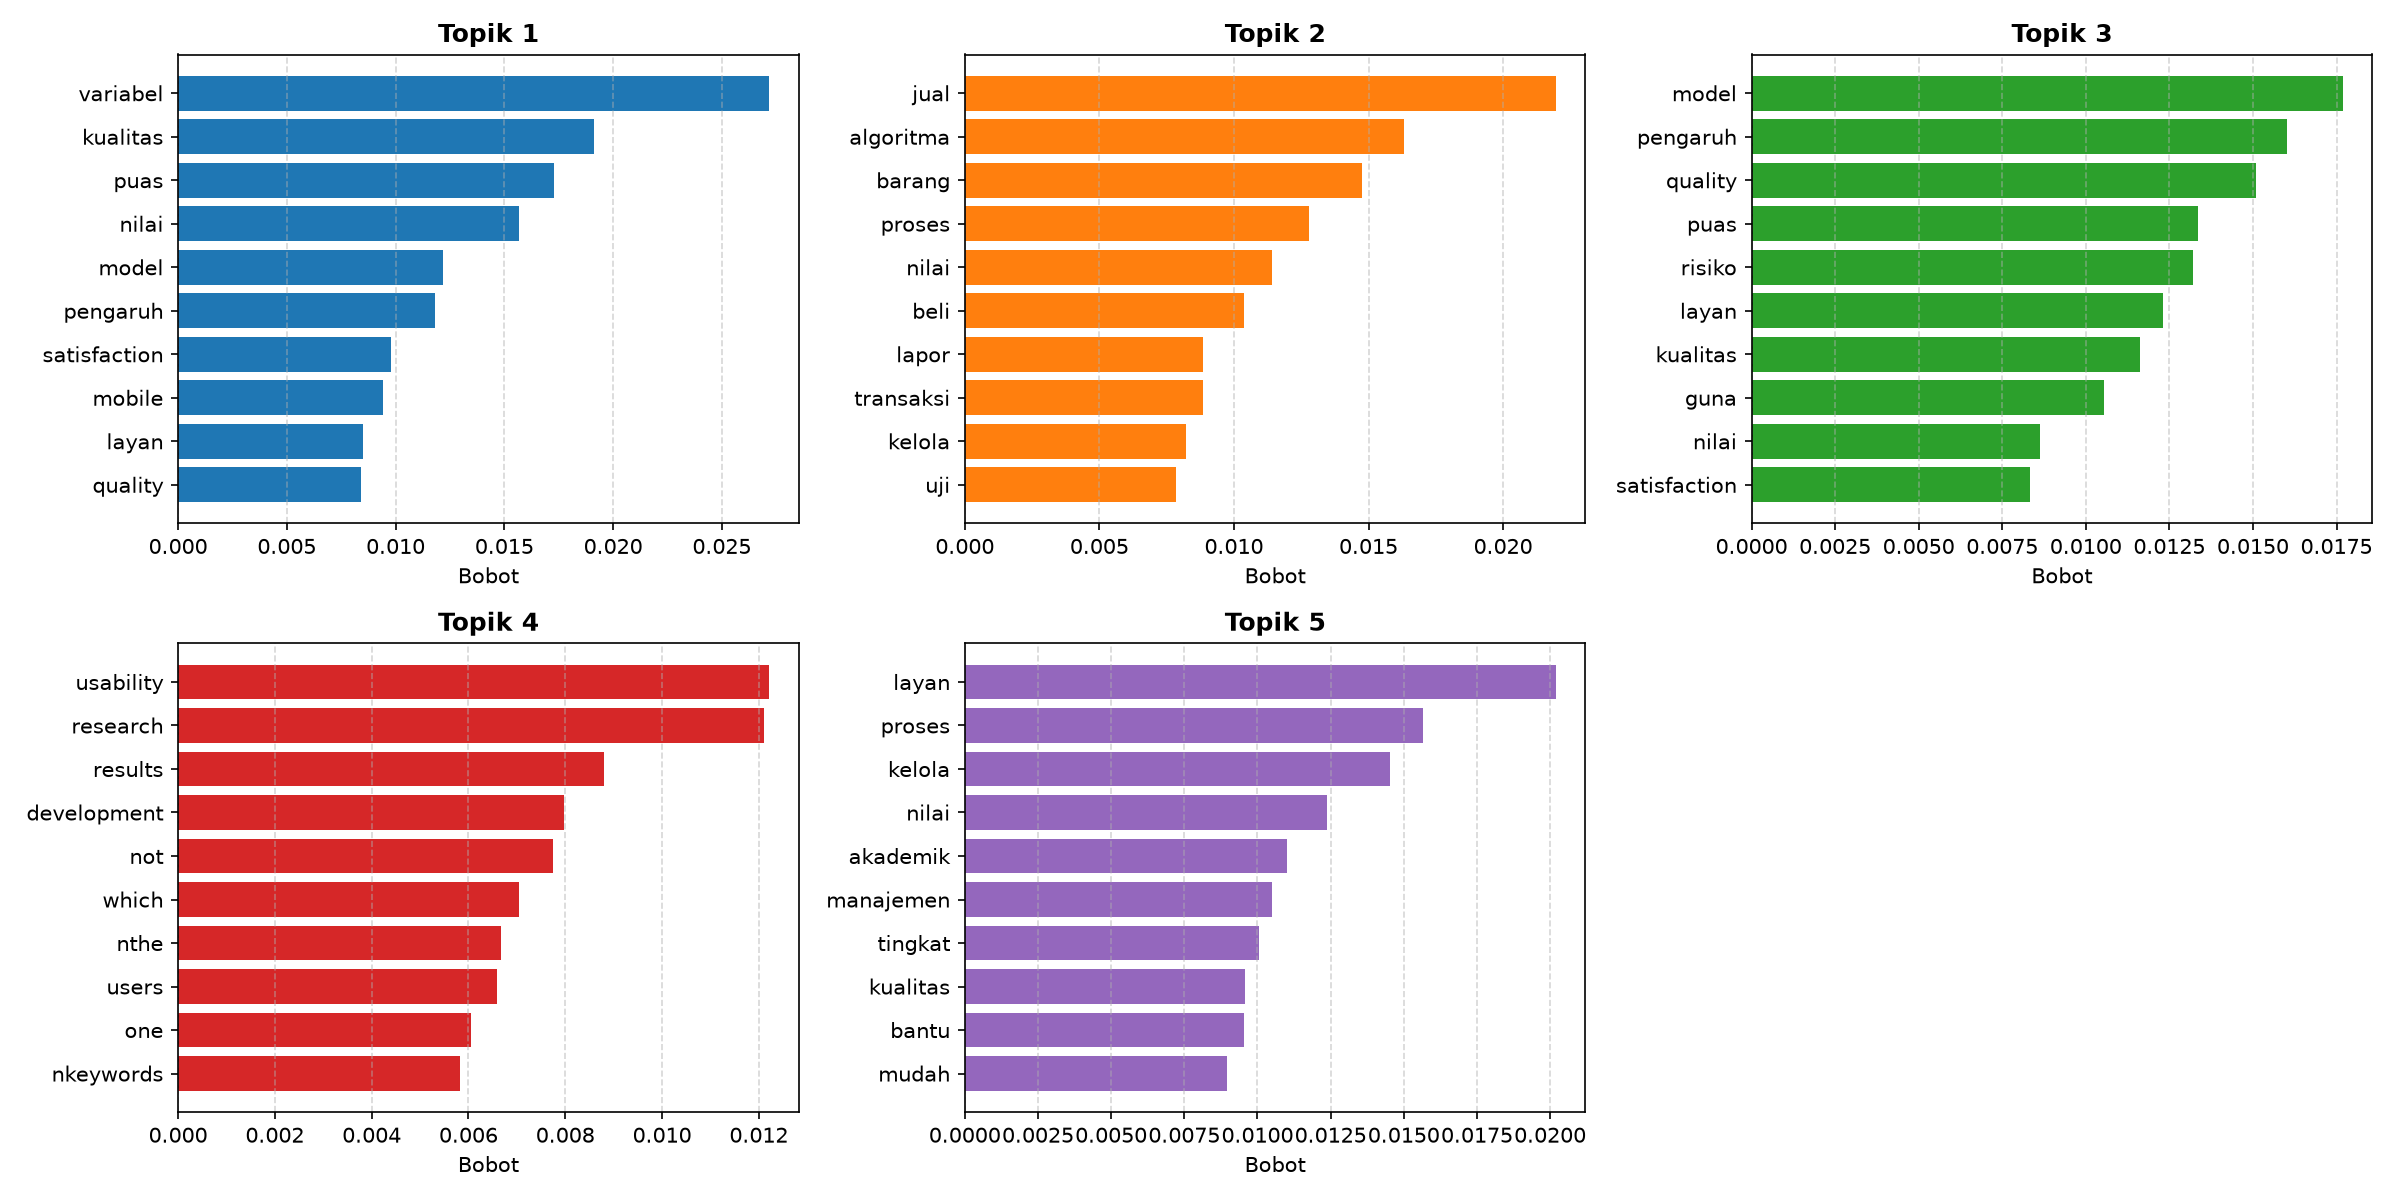
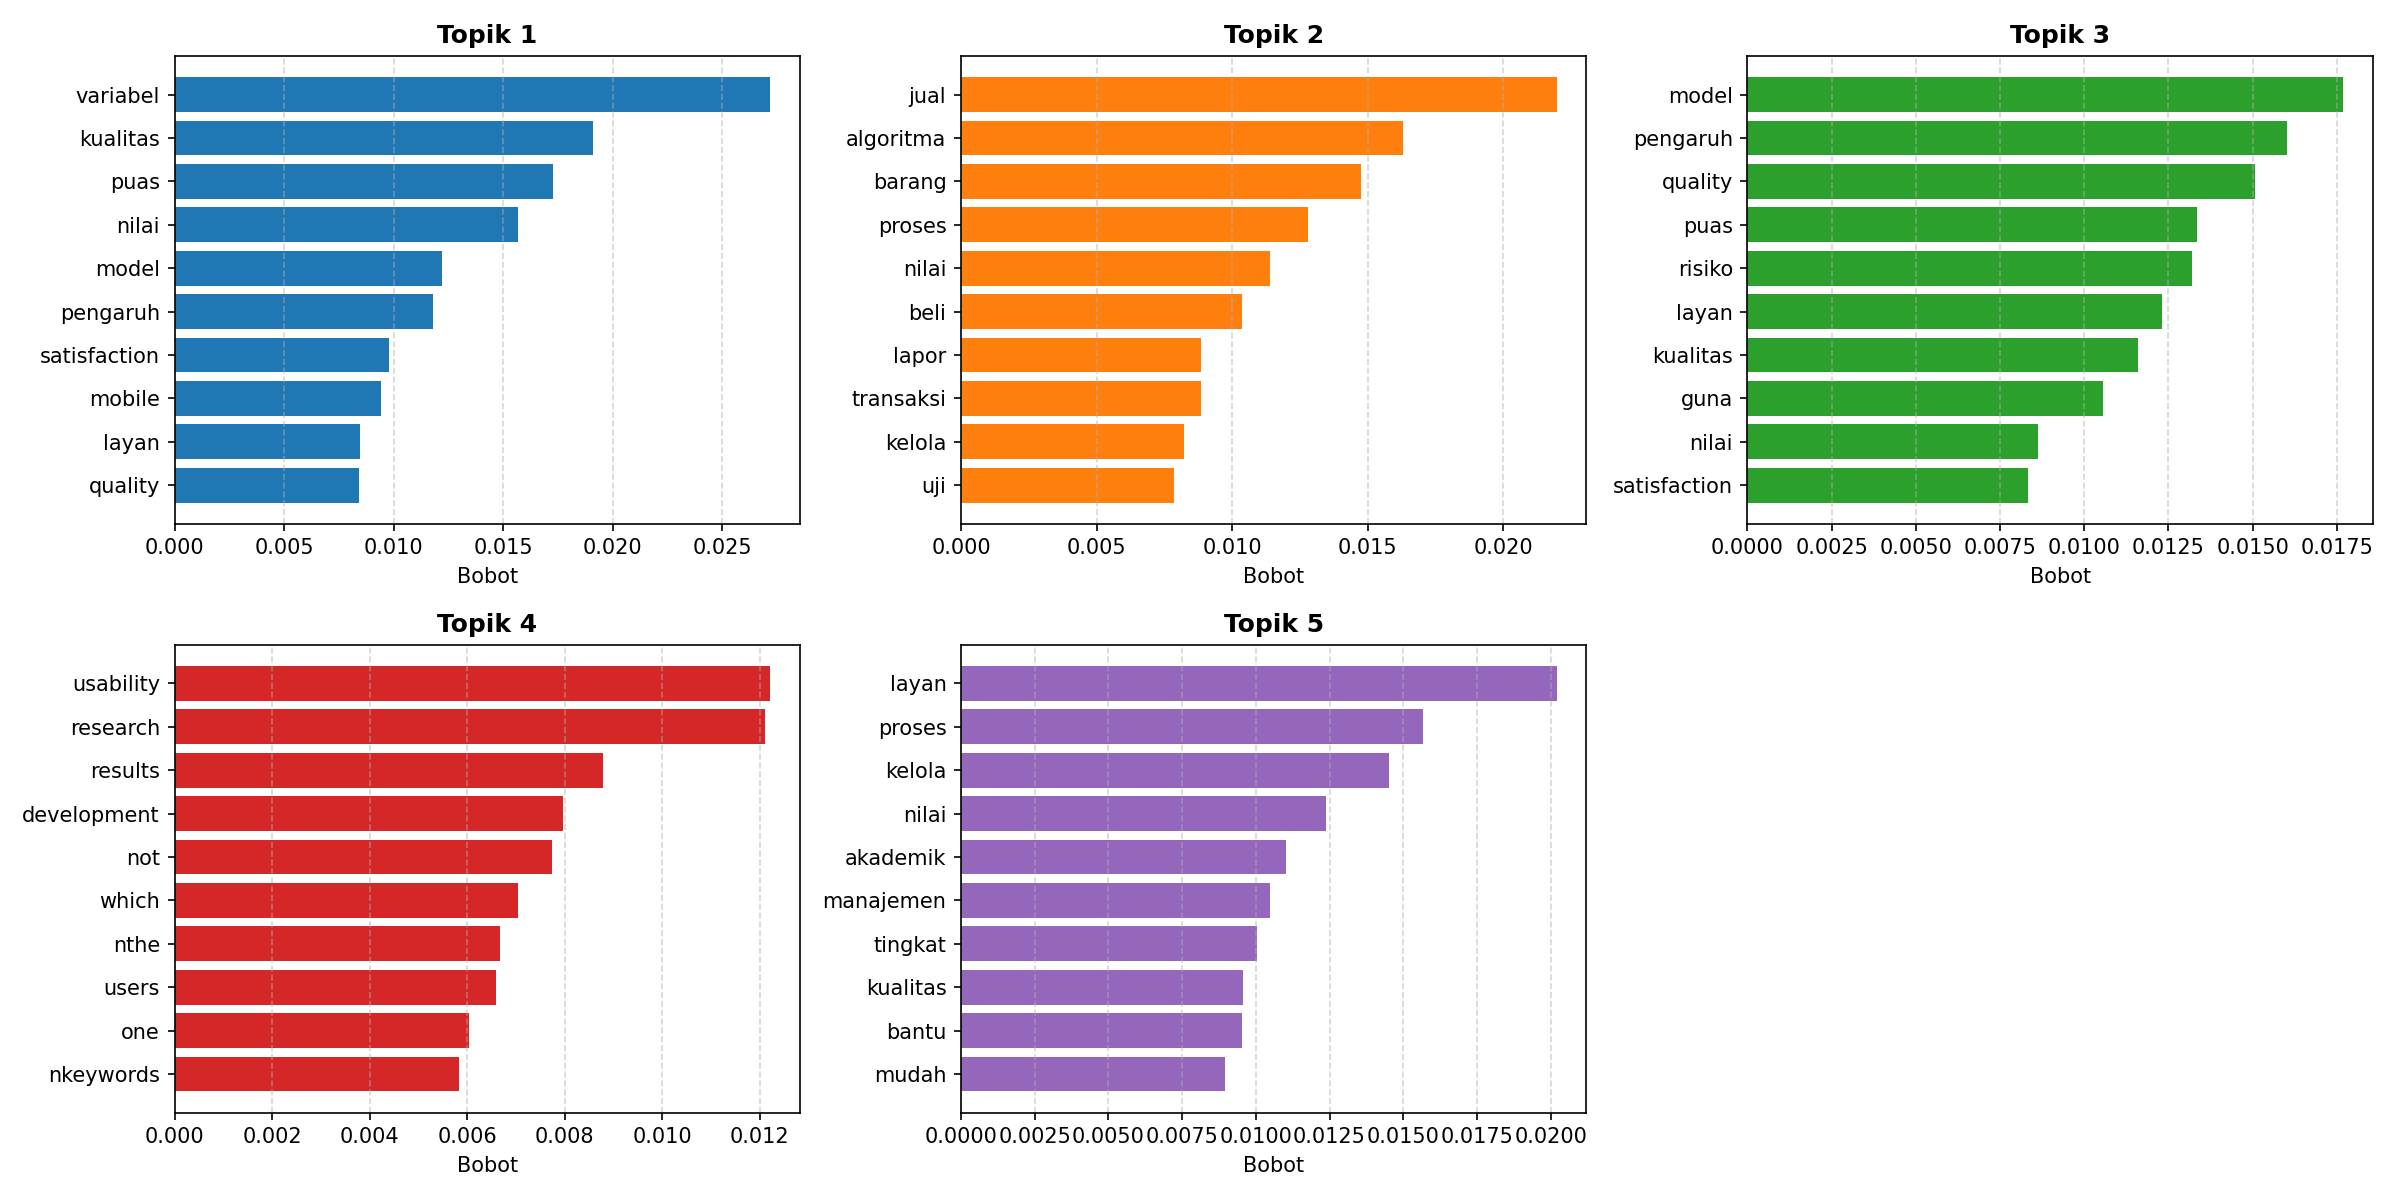
fix: generate topic_trend.csv from pipeline, fix off-by-one in trend_analyzer labels

diff --git a/app/main.py b/app/main.py
@@ -197,7 +197,7 @@ if page == "📈 Overview":
             color_continuous_scale='Viridis'
         )
         fig.update_layout(height=400, showlegend=False)
-        st.plotly_chart(fig, width='stretch')
+        st.plotly_chart(fig, use_container_width=True)
     
     with col2:
         st.subheader("Distribusi Probabilitas Topik Dominan")
@@ -209,7 +209,7 @@ if page == "📈 Overview":
             color_discrete_sequence=['#636EFA']
         )
         fig.update_layout(height=400, showlegend=False)
-        st.plotly_chart(fig, width='stretch')
+        st.plotly_chart(fig, use_container_width=True)
     
     st.markdown("---")
     
@@ -224,7 +224,7 @@ if page == "📈 Overview":
         markers=True
     )
     fig.update_layout(height=400, hovermode='x unified')
-    st.plotly_chart(fig, width='stretch')
+    st.plotly_chart(fig, use_container_width=True)
 
 
 # PAGE 2: VISUALISASI LDA
@@ -288,7 +288,7 @@ elif page == "🔵 Visualisasi LDA":
     )
     fig_bubble.update_traces(marker=dict(line=dict(width=2, color='white')))
     
-    st.plotly_chart(fig_bubble, width='stretch')
+    st.plotly_chart(fig_bubble, use_container_width=True)
     
     st.markdown("---")
     
@@ -300,7 +300,7 @@ elif page == "🔵 Visualisasi LDA":
         display_table = topic_stats[['topic_id', 'label', 'doc_count', 'avg_prob', 'year_min', 'year_max']].copy()
         display_table.columns = ['Topic ID', 'Label', 'Documents', 'Avg Probability', 'First Year', 'Last Year']
         display_table = display_table.sort_values('Documents', ascending=False)
-        st.dataframe(display_table, width='stretch', hide_index=True)
+        st.dataframe(display_table, use_container_width=True)
     
     with col2:
         st.subheader("📈 Summary")
@@ -380,7 +380,7 @@ elif page == "📊 Model Metrics":
     st.markdown("---")
     
     st.subheader("📋 Detailed Metrics Table")
-    st.dataframe(metrics_df, width='stretch', hide_index=True)
+    st.dataframe(metrics_df, use_container_width=True)
     
     st.markdown("---")
     
@@ -424,7 +424,7 @@ elif page == "🏷️ Topic Analysis":
             color_continuous_scale='Blues'
         )
         fig.update_layout(height=400, showlegend=False, yaxis={'categoryorder':'total ascending'})
-        st.plotly_chart(fig, width='stretch')
+        st.plotly_chart(fig, use_container_width=True)
     
     with col2:
         st.subheader("Quick Stats")
@@ -457,7 +457,7 @@ elif page == "🏷️ Topic Analysis":
             fig_q.add_hline(y=0.4, line_dash="dash", line_color="red",
                           annotation_text="Threshold (0.4)")
             fig_q.update_layout(height=400)
-            st.plotly_chart(fig_q, width='stretch')
+            st.plotly_chart(fig_q, use_container_width=True)
 
         with col_b:
             st.metric("Rata-rata Quality", f"{quality_df['quality_coherence'].mean():.3f}")
@@ -470,7 +470,7 @@ elif page == "🏷️ Topic Analysis":
 
         st.markdown("---")
         with st.expander("📋 Detail Tabel Kualitas Label"):
-            st.dataframe(quality_df, width='stretch', hide_index=True)
+            st.dataframe(quality_df, use_container_width=True)
     else:
         st.info("Data kualitas label belum tersedia. Jalankan pipeline ulang dengan `--label-method tfidf` untuk mendapatkannya.")
 
@@ -495,7 +495,7 @@ elif page == "🏷️ Topic Analysis":
         color_continuous_scale='Greens'
     )
     fig.update_layout(height=400, showlegend=False)
-    st.plotly_chart(fig, width='stretch')
+    st.plotly_chart(fig, use_container_width=True)
     
     st.markdown("---")
     
@@ -546,7 +546,7 @@ elif page == "🏷️ Topic Analysis":
         # Display data with error handling
         if len(topic_docs) > 0:
             display_df = topic_docs[['Nama', 'Judul', 'Tahun', 'prob_dominan']].head(15).reset_index(drop=True)
-            st.dataframe(display_df, width='stretch')
+            st.dataframe(display_df, use_container_width=True)
         else:
             st.info("No documents found for this topic.")
             
@@ -649,7 +649,7 @@ elif page == "📖 Data Info":
     st.markdown("---")
     
     st.subheader("📋 Raw Data Preview")
-    st.dataframe(topic_dist_df.head(20), width='stretch', hide_index=True)
+    st.dataframe(topic_dist_df.head(20), use_container_width=True)
     
     st.markdown("---")
     
@@ -727,7 +727,7 @@ elif page == "📈 Prediksi Tren":
             hovermode='x unified',
             legend=dict(orientation='h', yanchor='bottom', y=1.02, xanchor='right', x=1)
         )
-        st.plotly_chart(fig, width='stretch')
+        st.plotly_chart(fig, use_container_width=True)
 
         st.markdown("---")
 
@@ -738,7 +738,7 @@ elif page == "📈 Prediksi Tren":
         display_df['2026'] = display_df['2026'].apply(lambda x: f"{x:.2f}%")
         display_df['2027'] = display_df['2027'].apply(lambda x: f"{x:.2f}%")
         display_df.columns = ['Label Topik', 'R²', 'Linearitas', '2026 (%)', '2027 (%)', 'Arah Tren']
-        st.dataframe(display_df, width='stretch', hide_index=True)
+        st.dataframe(display_df, use_container_width=True)
 
         st.markdown("---")
 
@@ -751,7 +751,7 @@ elif page == "📈 Prediksi Tren":
 
         # ── Detail per topik ──
         with st.expander("📋 Detail Semua Topik"):
-            st.dataframe(trend_df, width='stretch', hide_index=True)
+            st.dataframe(trend_df, use_container_width=True)
 
     else:
         st.info("Data prediksi tren belum tersedia.")
@@ -759,7 +759,7 @@ elif page == "📈 Prediksi Tren":
 
         if topic_trend_df is not None:
             st.subheader("Data Historis Tersedia (topic_trend.csv)")
-            st.dataframe(topic_trend_df, width='stretch', hide_index=True)
+            st.dataframe(topic_trend_df, use_container_width=True)
         else:
             st.warning("Data historis topik per tahun (`model/topic_trend.csv`) juga belum tersedia.")
             st.write("Jalankan pipeline utama terlebih dahulu.")
@@ -910,7 +910,7 @@ elif page == "⚙️ Manage Labels":
     st.markdown("---")
     
     st.subheader("📋 Preview Semua Label")
-    st.dataframe(st.session_state.labels_edited, width='stretch', hide_index=True)
+    st.dataframe(st.session_state.labels_edited, use_container_width=True)
 
 # Footer
 st.markdown("---")

diff --git a/pipeline.py b/pipeline.py
@@ -178,6 +178,15 @@ def plot_topic_trend(df_result: pd.DataFrame):
     plt.close()
     logger.info(f"  Plot tren tahunan -> {MODEL_DIR}/tren_topik_per_tahun.png")
 
+    # Save raw counts as CSV (topic proportion per year)
+    pivot.to_csv(f'{MODEL_DIR}/topic_trend_counts.csv')
+    # Save normalized (proportion) as topic_trend.csv
+    pivot_normalized = pivot.div(pivot.sum(axis=1), axis=0)
+    pivot_normalized.reset_index().to_csv(
+        f'{MODEL_DIR}/topic_trend.csv', index=False, encoding='utf-8-sig'
+    )
+    logger.info(f"  Trend data (proportion) -> {MODEL_DIR}/topic_trend.csv")
+
 
 def main():
     parser = argparse.ArgumentParser(description='Pipeline LDA Topic Modeling')

diff --git a/trend_analyzer.py b/trend_analyzer.py
@@ -53,7 +53,7 @@ def analyze_topic_trends(
 
     for col in topic_cols:
         try:
-            topic_id = int(''.join(filter(str.isdigit, col)))
+            topic_id = int(''.join(filter(str.isdigit, col))) - 1
         except:
             topic_id = topic_cols.index(col)
 